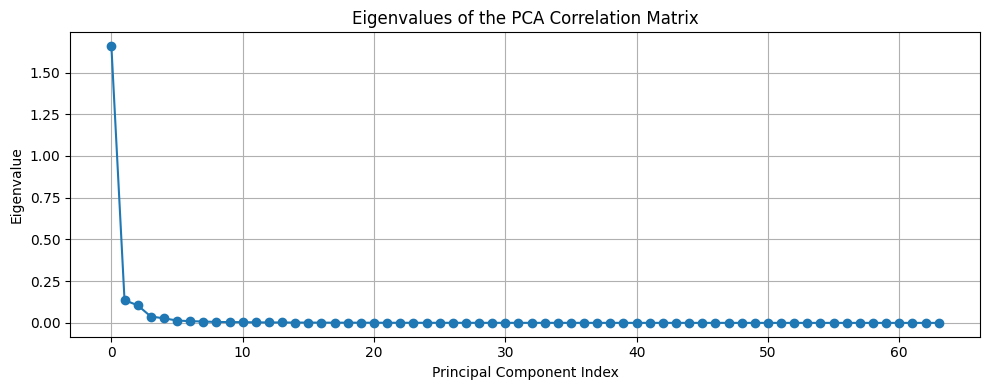
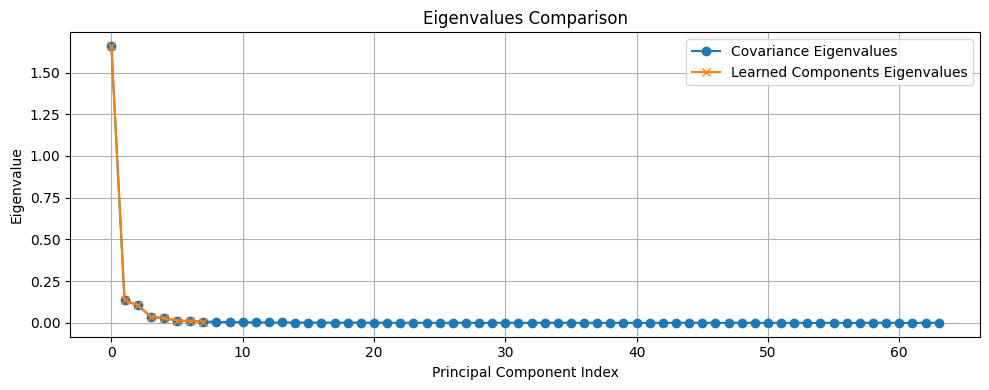
added comparison of learned and corr eigenvalues

diff --git a/utils.py b/utils.py
@@ -139,16 +139,24 @@ def blocks_to_image(blocks_4d):
     return blocks_4d.transpose(0, 2, 1, 3).reshape(256, 256)
 
 
-def plot_pca_eigenvalues(centered_data):
+def plot_pca_eigenvalues(centered_data, learned_components = None):
     cov_matrix = centered_data.T @ centered_data / centered_data.shape[0]
     eigenvalues, _ = np.linalg.eigh(cov_matrix)
     eigenvalues = np.flip(np.sort(eigenvalues))
 
     plt.figure(figsize=(10, 4))
-    plt.plot(eigenvalues, marker='o')
-    plt.title("Eigenvalues of the PCA Correlation Matrix")
+    plt.plot(eigenvalues, marker='o', label='Covariance Eigenvalues')
+
+    if learned_components is not None:
+        projections = centered_data @ learned_components.T
+        eigenvalues_learned = np.var(projections, axis=0)
+        plt.plot(eigenvalues_learned, marker='x', label="Learned Components Eigenvalues")
+
+
+    plt.title("Eigenvalues Comparison")
     plt.xlabel("Principal Component Index")
     plt.ylabel("Eigenvalue")
+    plt.legend()
     plt.grid(True)
     plt.tight_layout()
     plt.show()
